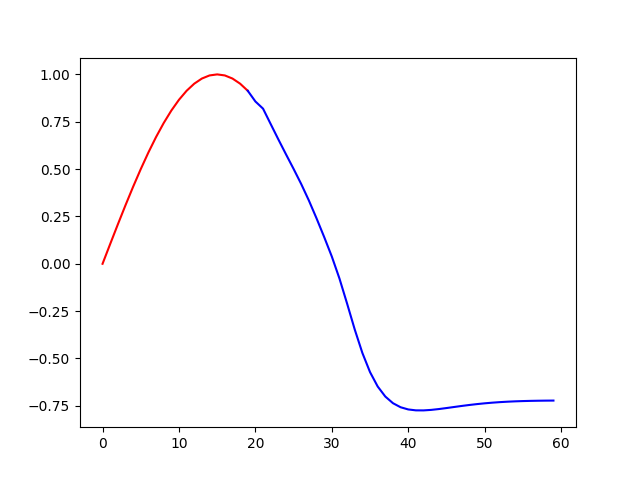
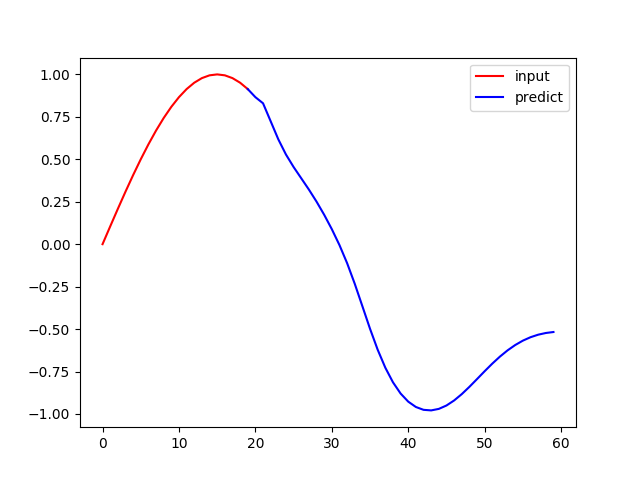
labelを表示

diff --git a/train.py b/train.py
@@ -124,8 +124,9 @@ with torch.no_grad():
 x = test_x[:, 0, 0].to(cpu).detach().tolist()
 y = outputs[:, 0, 0].to(cpu).detach().tolist()[1:]
 
-plt.plot(list(range(INPUT_LEN)), x, color="r", label="train_x")
-plt.plot(list(range(INPUT_LEN - 1, INPUT_LEN + OUTPUT_LEN)), [x[-1]] + y, color="b", label="predict_y")
+plt.plot(list(range(INPUT_LEN)), x, color="r", label="input")
+plt.plot(list(range(INPUT_LEN - 1, INPUT_LEN + OUTPUT_LEN)), [x[-1]] + y, color="b", label="predict")
+plt.legend()
 plt.savefig("result/" + args.output_file_name)
 
 
